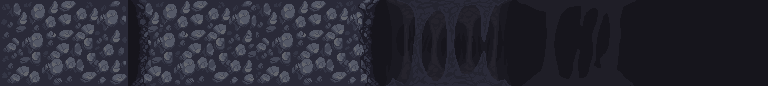
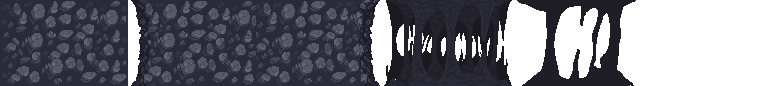
Fix several bugs, update guild hall and guest room.

diff --git a/src/content/guild.ts b/src/content/guild.ts
@@ -1,7 +1,7 @@
 import { areaWalls, AreaDoor } from 'app/content/areaTypes';
 import { allApplications, allBeds, guildObject } from 'app/content/furniture';
 import { createCanvas, mainContext } from 'app/dom';
-import { MAX_Z } from 'app/gameConstants';
+import { MAX_Z, MIN_Z } from 'app/gameConstants';
 import { drawImage, drawOutlinedImage, requireImage } from 'app/images';
 import { drawTextureMap } from 'app/render/drawTextureMap';
 import { getCanvasPopupTarget } from 'app/popup';
@@ -95,53 +95,60 @@ export function getDefaultGuildAreas(): GuildAreas {
             {key: 'skeleton', level: 1, location: [360, 0, 0]},
         ],
     }, 2);
-    guildAreas.guildFrontHall = initializeGuldArea({
-        'key': 'guildFrontHall',
-        'width': 400,
-        'backgroundPatterns': {'0': 'oldGuild'},
-        'wallDecorations': [
-            guildObject('candles', [165, 50, wallZ], {'xScale': -1, 'scale': 1.5}),
-            guildObject('door', [250, 0, wallZ], {'exit': {'areaKey': 'guildGuestRoom', 'x': 400, 'z': 150}, 'scale': 1}),
-            guildObject('candles', [540, 70, wallZ], {'xScale': -1, 'scale': 1.5}),
-            guildObject('door', [600, 0, wallZ], {'exit': {'areaKey': 'guildKitchen', 'x': 150, 'z': 150}, 'scale': 1}),
-            guildObject('candles', [660, 70, wallZ], {'scale': 1.5}),
-            guildObject('candles', [1035, 50, wallZ], {'scale': 1.5}),
-            guildObject('downstairs', [800, 0, wallZ], {'exit': {'areaKey': 'guildBasement', 'x': 800, 'z': 150}, 'scale': 1}),
-        ],
-        'objects': [
-            guildObject('stoneBridge', [12, 0, 0], {'xScale': -1, exit: {areaKey: 'guildFoyer', x: 400 - 48, z: 0}}),
-            guildObject('jewelShrine', [600, 0, 0], {'scale': 1}),
-            guildObject('coinStash', [340, 0, 165], {'level': 1, 'key': 'coinStashA'}),
-            guildObject('coinStash', [400, 0, 165], {'level': 2, 'key': 'coinStashB'}),
-            guildObject('trophyAltar', [300, 0, 0], {'scale': 1, 'key': 'trophyAltarA'}),
-            guildObject('trophyAltar', [900, 0, 0], {'scale': 1, 'key': 'trophyAltarB'}),
-        ],
-        'monsters': [
-            {key: 'spider', level: 3, location: [600, 0, 40]},
-            {key: 'gnome', level: 3, location: [880, 0, 0]},
-        ],
-        'leftWall': areaWalls.guildWall,
-        'rightWall': areaWalls.guildWall,
-    }, 3);
+    {
+        const width = 600;
+        guildAreas.guildFrontHall = initializeGuldArea({
+            'key': 'guildFrontHall',
+            width,
+            'backgroundPatterns': {'0': 'oldGuild'},
+            'wallDecorations': [
+                guildObject('candles', [70, 12, wallZ], {'xScale': -1, 'scale': 1}),
+                guildObject('door', [125, 0, wallZ], {'exit': {'areaKey': 'guildGuestRoom', 'x': 160, 'z': MAX_Z - 24}, 'scale': 1}),
+                guildObject('candles', [width / 2 - 30, 24, wallZ], {'xScale': -1, 'scale': 1}),
+                guildObject('door', [width / 2, 0, wallZ], {'exit': {'areaKey': 'guildKitchen', 'x': 160, 'z': MAX_Z - 24}, 'scale': 1}),
+                guildObject('candles', [width / 2 + 30, 24, wallZ], {'scale': 1}),
+                guildObject('candles', [width - 70, 12, wallZ], {'scale': 1}),
+                //guildObject('downstairs', [200, 0, wallZ], {'exit': {'areaKey': 'guildBasement', 'x': 800, 'z': 150}, 'scale': 1}),
+                new AreaDoor(true, {areaKey: 'guildFoyer', x: 400 - 48, z: 0}, AreaDoor.openDoorFrame),
+                new AreaDoor(false, {'areaKey': 'guildBasement', 'x': 250 - 48, 'z': MAX_Z - 24}, AreaDoor.openDoorFrame),
+            ],
+            'objects': [
+                guildObject('jewelShrine', [width / 2, 0, 0], {'scale': 1}),
+                guildObject('coinStash', [175, 0, MAX_Z - 15], {'level': 1, 'key': 'coinStashA'}),
+                guildObject('coinStash', [200, 0, MAX_Z - 15], {'level': 2, 'key': 'coinStashB'}),
+                guildObject('trophyAltar', [width / 4, 0, 0], {'scale': 1, 'key': 'trophyAltarA'}),
+                guildObject('trophyAltar', [3 * width / 4, 0, 0], {'scale': 1, 'key': 'trophyAltarB'}),
+            ],
+            'monsters': [
+                {key: 'spider', level: 3, location: [600, 0, 40]},
+                {key: 'gnome', level: 3, location: [880, 0, 0]},
+            ],
+            'leftWall': areaWalls.guildWall,
+            'rightWall': areaWalls.guildWall,
+        }, 3);
+    }
 
-    guildAreas.guildGuestRoom = initializeGuldArea({
-        'key': 'guildGuestRoom',
-        'width': 320,
-        'backgroundPatterns': {'0': 'oldGuild'},
-        'wallDecorations': [
-            guildObject('candles', [340, 50, wallZ], {'xScale': -1, 'scale': 1.5}),
-            guildObject('candles', [460, 50, wallZ], {'scale': 1.5}),
-            guildObject('door', [400, 0, wallZ], {'exit': {'areaKey': 'guildFrontHall', 'x': 250, 'z': 150}, 'scale': 1}),
-        ],
-        'objects': [
-            guildObject('bed', [120, 0, 140], {'scale': 1, 'xScale': -1}),
-            guildObject('bed', [680, 0, 140], {'scale': 1, 'xScale': -1}),
-            guildObject('coinStash', [60, 0, -140], {'level': 1, 'key': 'coinStashA'}),
-            guildObject('coinStash', [740, 0, -140], {'level': 1, 'key': 'coinStashB'}),
-        ],
-        'leftWall': areaWalls.guildWall,
-        'rightWall': areaWalls.guildWall,
-    }, 4);
+    {
+        const width = 320;
+        guildAreas.guildGuestRoom = initializeGuldArea({
+            'key': 'guildGuestRoom',
+            width,
+            'backgroundPatterns': {'0': 'oldGuild'},
+            'wallDecorations': [
+                guildObject('candles', [130, 12, wallZ], {'xScale': -1, 'scale': 1}),
+                guildObject('door', [160, 0, wallZ], {'exit': {'areaKey': 'guildFrontHall', 'x': 125, 'z': MAX_Z - 24}, 'scale': 1}),
+                guildObject('candles', [190, 12, wallZ], {'scale': 1}),
+            ],
+            'objects': [
+                guildObject('bed', [60, 0, MAX_Z - 15], {'scale': 1, 'xScale': -1}),
+                guildObject('bed', [width - 60, 0, MAX_Z - 15], {'scale': 1, 'xScale': -1}),
+                guildObject('coinStash', [20, 0, MIN_Z + 15], {'level': 1, 'key': 'coinStashA'}),
+                guildObject('coinStash', [width - 20, 0, MIN_Z + 15], {'level': 1, 'key': 'coinStashB'}),
+            ],
+            'leftWall': areaWalls.guildWall,
+            'rightWall': areaWalls.guildWall,
+        }, 4);
+    }
 
     guildAreas.guildKitchen = initializeGuldArea({
         'key': 'guildKitchen',

diff --git a/src/content/areaTypes.ts b/src/content/areaTypes.ts
@@ -406,14 +406,15 @@ const FieldArea: AreaType = {
                 frame.x, frame.y, frame.w, frame.h,
                 Math.round(x + SRandom.seed(index).random()), -SRandom.seed(index).range(0, 8), w, h
             );*/
-            const P = 20;
+            const P = Math.max(50 / cloudSpeed);
             const W = frame.w / P;
+            const y = -random.addSeed(index).range(0, 8);
             for (let i = 0; i < P; i++) {
                 // This is 1px wide for all but the last section so they will not have gaps between.
-                const width = W + ((i === P) ? 0 : 1);
-                drawFrame(context, {...frame, w: width, x: frame.x + i * W}, {
-                    x: Math.round(x + i * W + random.addSeed(index).random() + i / P),
-                    y: -random.addSeed(index).range(0, 8), w: width, h});
+                const width = Math.ceil(W + 1);//((i === P) ? 0 : 1);
+                drawFrame(context, {...frame, w: width, x: Math.floor(frame.x + i * W)}, {
+                    x: Math.floor(x + i * W /*+ random.addSeed(index).random()*/ + i / P),
+                    y, w: width, h});
             }
             x += w;
             index++;
@@ -452,7 +453,7 @@ const caveFrames = createAnimation('gfx2/areas/cavetiles.png', r(0, 0, 32, 32), 
 const caveBackFrontFrames = createAnimation('gfx2/areas/caveforeground.png',
     r(0, 0, 128, 86), {cols: 2}).frames;
 const [stoneWallMid, stoneWallLeft, stoneWallRight, ...caveBackFrames] = createAnimation('gfx2/areas/cavebackground.png',
-    r(0, 0, 128, 84), {cols: 6}).frames;
+    r(0, 0, 128, 86), {cols: 6}).frames;
 const caveThingFrames = createAnimation('gfx2/areas/cavethings.png',
     r(0, 0, 32, 32), {cols: 2}).frames;
 
@@ -471,12 +472,17 @@ const CaveArea: AreaType = {
         area.leftWall = areaWalls.caveWall;
         area.rightWall = areaWalls.caveWall;
         // Add an obstacle to the corners
-        area.objects.push(new AreaObstacle(random.addSeed(1).element(caveThingFrames), 44, MAX_Z - 24));
-        area.objects.push(new AreaObstacle(random.addSeed(2).element(caveThingFrames), area.width - 44, MAX_Z - 24));
+        area.objects.push(new AreaObstacle(random.addSeed(1).element(caveThingFrames), 44, MAX_Z - 30));
+        area.objects.push(new AreaObstacle(random.addSeed(2).element(caveThingFrames), area.width - 44, MAX_Z - 30));
         finalizeArea(area);
     },
     drawFloor(context, area) {
         const random = SRandom.addSeed(area.seed);
+
+        // Draw a black background behind everything. This is for pits and when the background is empty.
+        context.fillStyle = '#121115';
+        context.fillRect(0, 0, ADVENTURE_WIDTH, ADVENTURE_HEIGHT);
+
         let w = FLOOR_TILE_SIZE;
         let h = FLOOR_TILE_SIZE;
         let x = Math.floor(area.cameraX / w) * w;
@@ -490,12 +496,12 @@ const CaveArea: AreaType = {
         fillRect(context, BOTTOM_HUD_RECT, '#883');
     },
     drawBackground(context, area) {
-        drawFrame(context, meadowSky, {...meadowSky, x: 0, y: 0});
         const random = SRandom.addSeed(area.seed);
+
         // Draws the pillars with parallax.
         {
             let w = 128;
-            let h = 84;
+            let h = 86;
             let X = area.cameraX * 0.8;
             let x = Math.floor(X / w) * w;
             while (x < X + ADVENTURE_WIDTH) {
@@ -509,7 +515,7 @@ const CaveArea: AreaType = {
         {
             const gap = random.range(0, 2);
             let w = 128;
-            let h = 84;
+            let h = 86;
             let X = area.cameraX;
             let x = Math.floor(X / w) * w;
             while (x < X + ADVENTURE_WIDTH) {
@@ -538,7 +544,8 @@ const CaveArea: AreaType = {
             let x = Math.floor(area.cameraX / w) * w;
             while (x < area.cameraX + ADVENTURE_WIDTH) {
                 const frame = random.addSeed(x).element(caveBackFrontFrames);
-                drawFrame(context, frame, {x: x - area.cameraX, y: 0, w, h});
+                // Currently this needs to be down several pixels to line up correctly.
+                drawFrame(context, frame, {x: x - area.cameraX, y: 5, w, h});
                 x += w;
             }
         }

diff --git a/src/content/heroGraphics.ts b/src/content/heroGraphics.ts
@@ -1,5 +1,5 @@
 import { drawComplexCompositeTintedFrame, drawCompositeTintedFrame, requireImage } from 'app/images';
-import { drawFrame } from 'app/utils/animations';
+import { createAnimation, drawFrame } from 'app/utils/animations';
 import Random from 'app/utils/Random';
 
 import { Hero, JobKey, TintedFrame } from 'app/types';
@@ -147,6 +147,7 @@ export function createHeroColors(jobKey: JobKey) {
     };
 }
 export function updateHeroGraphics(hero: Hero) {
+    //document.body.appendChild(hero.personCanvas);
     hero.personCanvas.width = totalWidth;
     hero.personCanvas.height = totalHeight;
     hero.personContext.clearRect(0, 0, totalWidth, totalHeight);
@@ -199,10 +200,10 @@ export function updateHeroGraphics(hero: Hero) {
     const weapon = hero.equipment.weapon;
     switch (weapon ? weapon.base.type : 'none') {
         case 'bow': {
-            // First frame for a bow attack is the preparation frame 7 (offset 6)
+            // First two frames for a bow attack are the preparation frames 7+8 (offset 6+7)
             context.drawImage(bowSheet,
-                0, 0, frameWidth, totalHeight,
-                6 * frameWidth, 0, frameWidth, totalHeight,
+                0, 0, 2 * frameWidth, totalHeight,
+                6 * frameWidth, 0, 2 * frameWidth, totalHeight,
             );
             // The remaining two frames are frame 16+17 for drawing and releasing the arrow.
             const width = 2 * frameWidth;
@@ -214,11 +215,15 @@ export function updateHeroGraphics(hero: Hero) {
             break;
         }
         case 'throwing': {
-            const width = 2 * frameWidth;
-            const offset = 8 * frameWidth;
-            context.drawImage(staffSheet,
-                0, 0, width, totalHeight,
-                offset, 0, width, totalHeight,
+            // First throw frame is put on frame 9 (for initial attack).
+            context.drawImage(throwSheet,
+                0, 0, frameWidth, totalHeight,
+                8 * frameWidth, 0, frameWidth, totalHeight,
+            );
+            // Second throw frame is on frame 11 (for secondary attack).
+            context.drawImage(throwSheet,
+                frameWidth, 0, frameWidth, totalHeight,
+                10 * frameWidth, 0, frameWidth, totalHeight,
             );
             break;
         }
@@ -252,5 +257,26 @@ export function updateHeroGraphics(hero: Hero) {
     } else if (hero.colors.bandanaColor) {
         // This should apply the color, but it isn't a tintable graphic yet.
         drawFrame(context, {image: bandanaSheet, ...characterRectangle}, characterRectangle);
+    }
+    const heroFrame = {x: 0, y: 0, w: 64, h: 48, content: {x: 20, y: 16, w: 16, h: 31}};
+    if (weapon && weapon.base.type === 'bow') {
+        // Bows have different attack animation frames than other weapons
+        hero.source.attackPreparationAnimation = createAnimation(
+            hero.personCanvas, heroFrame,
+            {cols: 17, frameMap: [6, 7, 15]},
+        );
+        hero.source.attackRecoveryAnimation = createAnimation(
+            hero.personCanvas, heroFrame,
+            {cols: 17, frameMap: [16, 16]},
+        );
+    } else {
+        hero.source.attackPreparationAnimation = createAnimation(
+            hero.personCanvas, heroFrame,
+            {cols: 17, frameMap: [6, 7, 8]},
+        );
+        hero.source.attackRecoveryAnimation = createAnimation(
+            hero.personCanvas, heroFrame,
+            {cols: 17, frameMap: [9, 9]},
+        );
     }
 }

diff --git a/src/render/drawActor.ts b/src/render/drawActor.ts
@@ -199,8 +199,9 @@ export function drawActorEffects(context: CanvasRenderingContext2D, actor: Actor
         y -= 2;
         drawBar(context, x, y, barWidth, 3, 'white', '#aaa', actor.temporalShield / actor.maxTemporalShield);
     }
-    y = actor.top - 5;
-    drawEffectIcons(context, actor, x, y);
+    y = actor.top - 7;
+    drawEffectIcons(context, actor, x, y, barWidth);
+    // Draw spinning icons over stunned actor.
     if (!actor.isDead && actor.stunned) {
         const target =  {'left': 0, 'top': 0, 'width': shrineSource.width, 'height': shrineSource.height}
         for (let i = 0; i < 3; i++ ) {
@@ -229,9 +230,9 @@ function getActorTints(actor: Actor) {
     if (actor.slow > 0) tints.push(['#fff', Math.min(1, actor.slow)]);
     return tints;
 }
-function drawEffectIcons(context: CanvasRenderingContext2D, actor: Actor, x: number, y: number) {
+function drawEffectIcons(context: CanvasRenderingContext2D, actor: Actor, x: number, y: number, barWidth: number) {
     let effectXOffset = 0;
-    let effectYOffset = 2;
+    let effectYOffset = 0;
     const seenEffects = {};
     for (const effect of actor.allEffects) {
         const effectText = bonusSourceHelpText(effect, actor);
@@ -244,12 +245,12 @@ function drawEffectIcons(context: CanvasRenderingContext2D, actor: Actor, x: num
         for (const iconData of icons) {
             const source = {'image': requireImage(iconData[0]), 'left': iconData[1], 'top': iconData[2], 'width': iconData[3], 'height': iconData[4]};
             const xOffset = effectXOffset + iconData[5], yOffset = effectYOffset + iconData[6];
-            drawImage(context, source.image, source, {'left': x + xOffset, 'top': y + yOffset, 'width': source.width, 'height': source.height});
+            drawImage(context, source.image, source, {'left': x + xOffset, 'top': y + yOffset, 'width': 8, 'height': 8});
         }
-        effectXOffset += 16;
-        if (effectXOffset + 16 > Math.max(actor.w, 64)) {
+        effectXOffset += 8;
+        if (effectXOffset + 8 > barWidth) {
             effectXOffset = 0;
-            effectYOffset += 20;
+            effectYOffset += 8;
         }
     }
 }

diff --git a/src/state.ts b/src/state.ts
@@ -262,7 +262,7 @@ export function importState(savedState: SavedState) {
     savedState.inventoryItems.map(importItem).filter(item => item).forEach(addToInventory);
     // This might happen if we changed how much each holder contains during an update.
     state.characters = savedState.characters.map(importCharacter);
-    state.characters.forEach(character => {
+    state.characters.forEach((character, index) => {
         updateTrophy('level-' + character.adventurer.job.key, character.adventurer.level);
         for (var levelKey of Object.keys(character.divinityScores)) {
             var level = map[levelKey];
@@ -275,7 +275,7 @@ export function importState(savedState: SavedState) {
             }
             state.savedState.completedLevels[levelKey] = true;
         }
-        const bed = state.availableBeds[state.characters.length - 1];
+        const bed = state.availableBeds[index];
         if (bed) enterArea(character.hero, {'areaKey': bed.area.key, 'x': (bed.x > 160) ? bed.x - 30 : bed.x + 40, 'z': bed.z});
         else enterArea(character.hero, guildYardEntrance);
         query('.js-charactersBox').appendChild(character.characterCanvas);

diff --git a/src/utils/sounds.ts b/src/utils/sounds.ts
@@ -101,6 +101,7 @@ export function requireSound(key, callback = null) {
             howlerProperties.sprite = {
                 sprite: [offset, duration],
             };
+            newSound.spriteName = 'sprite';
         }
         newSound.howl = new Howl(howlerProperties),
         newSound.activeInstances = 0;
@@ -129,7 +130,11 @@ export function playSound(key, muted = false) {
     sound.canPlayAfter = now + customDelay;
     if (sound.howl) {
         sound.howl.mute(muted);
-        sound.howl.play();
+        if (sound.spriteName) {
+            sound.howl.play(sound.spriteName);
+        } else {
+            sound.howl.play();
+        }
     } else if (sound.play && !muted) {
         sound.play();
     }

diff --git a/src/character.ts b/src/character.ts
@@ -628,7 +628,7 @@ export function setSelectedCharacter(character: Character) {
     updateSkillConfirmationButtons();
     updateEquipableItems();
     //character.$characterCanvas.after($('.js-divinityPoints'));
-    query('.js-charactersBox .js-divinityPoints').after(character.characterCanvas)
+    //query('.js-charactersBox .js-divinityPoints').after(character.characterCanvas)
     //query('.js-charactersBox').appendChild();
     showContext(character.context);
     // Immediately show the desired camera position so the camera doesn't have to
